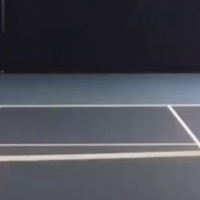
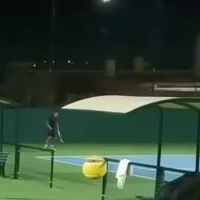
Starting to see more the ball

diff --git a/AI/ball_tracking2_zoom_prueba.py b/AI/ball_tracking2_zoom_prueba.py
@@ -34,6 +34,7 @@ def main(frame):
     global punto1Velocidad  
     global velocidadFinal
     global casiCentro
+    global numeroFrame
 
     # Agrandamos el frame para ver más la pelota
     frame = imutils.resize(frame, anchoOG * resizer, altoOG * resizer)
@@ -93,61 +94,6 @@ def main(frame):
     #     circles = np.round(circles[0, :]).astype(int)
     #     for (x, y, r) in circles:
     #         cv2.circle(frame, (x, y), r, (0, 255, 0), 2)
-    
-    if preCentro is not None:
-
-        greenLower2 = np.array([29, 15, 100])
-        greenUpper2 = np.array([200, 255, 255])
-
-        # Ajustar los puntos de recorte si están fuera de rango
-        x1 = max(preCentro[0][0] - recorteCerca, 0)
-        y1 = max(preCentro[0][1] - recorteCerca, 0)
-        x2 = min(preCentro[0][0] + recorteCerca, anchoOG * 3)
-        y2 = min(preCentro[0][1] + recorteCerca, altoOG * 3)
-
-        # Recortar la región de interés de la imagen original
-        imagen_recortada = frame[y1:y2, x1:x2]
-
-        # Agrandamos el frame para ver más la pelota
-        imagen_recortada = imutils.resize(imagen_recortada, imagen_recortada.shape[1] * resizer, imagen_recortada.shape[0] * resizer)
-
-        # Convertir la imagen a escala de grises
-        imagen_gris = cv2.cvtColor(imagen_recortada, cv2.COLOR_BGR2GRAY)
-
-        # Aplicar un suavizado si es necesario
-        blurred = cv2.GaussianBlur(imagen_gris, (11, 11), 0)
-        #thresh = cv2.threshold(blurred, 0, 255, cv2.THRESH_BINARY)[1]
-
-        # Convertir la imagen a HSV
-        # hsv = cv2.cvtColor(imagen_recortada, cv2.COLOR_BGR2HSV)
-
-        # # Filtrar los tonos verdes de la imagen
-        # mask = cv2.inRange(hsv, greenLower2, greenUpper2)
-
-        # # Aplicar operaciones de morfología para eliminar ruido
-        # kernel = np.ones((5, 5), np.uint8)
-        # mask = cv2.erode(mask, kernel, iterations=2)
-        # mask = cv2.dilate(mask, kernel, iterations=2)
-
-        #contours, _ = cv2.findContours(mask.copy(), cv2.RETR_EXTERNAL, cv2.CHAIN_APPROX_SIMPLE)
-        #cv2.drawContours(imagen_recortada, contours, -1, (255), thickness=cv2.FILLED)
-
-        # Busca los círculos en la imagen utilizando HoughCircles
-
-        # DP dice que si los círculos cercanos van a ser fusionados, o sea cuando el número aumenta es más probable que se fusionen. Tal vez haga que la posición del círculo no sea tan precisa. Suele variar entre 1, 1.2, 1.4
-        # Param1 es la sensibilidad que tiene para encontrar círculos. Si es muy grande, no va a encontrar muchos círculos y si es muy chico va a encontrar muchos círculos. Hay que encontrar un punto medio.
-        # Param2 es la precisión de la detección de círculos. Setea la cantidad de puntos del borde para que lo detectado sea considerado un círculo. Si es muy grande, no va a encontrar muchos círculos y si es muy chico va a encontrar muchos círculos. Hay que encontrar un punto medio.
-        circles = cv2.HoughCircles(blurred, cv2.HOUGH_GRADIENT, dp=1.2, minDist=50, param1=50, param2=25, minRadius=10, maxRadius=100)
-
-        # Si se encuentran círculos, dibújalos en la imagen original
-        if circles is not None:
-            circles = np.round(circles[0, :]).astype(int)
-            for (x, y, r) in circles:
-                cv2.circle(imagen_recortada, (x, y), r, (0, 255, 0), 2)
-                print("R", r)
-
-        cv2.imshow("Frame recortado", imagen_recortada)
-        #cv2.imshow("Mask Frame recortado", mask)
 
     centro = None
     
@@ -160,10 +106,6 @@ def main(frame):
         contornosQuietos(contornos, todosContornos, contornosIgnorar)
         if len(ultimosCentros) == 5 and seEstaMoviendo(ultimosCentros) == False:
             contornos = ignorarContornosQuietos(contornos, contornosIgnorar)
-
-        mascara2 = np.zeros(frame.shape[:2], dtype="uint8")
-        mascara2 = contornos.copy()
-        cv2.imshow("Mascara2", mascara2)
 
         if len(contornos) > 0:
             # Cuando empezó el video o pasaron 0.3 segundos desde que no se encuentra la pelota
@@ -184,7 +126,7 @@ def main(frame):
             # Si se detectó un centro hace menos de 0.3 segundos
             else:
                 # Corre la función tp_fix para determinar cual es el contorno detectado que está mas cerca de la pelota del frame anterior, es decir, encuentra la peltoa a través de su posición en el frame anterior
-                if preCentro is not None: casiCentro = tp_fix(contornos, preCentro, TiempoDeteccionUltimaPelota)
+                if preCentro is not None: casiCentro = tp_fix(contornos, preCentro, TiempoDeteccionUltimaPelota, False)
                 
                 # Encuentra la posición x, y del contorno más cercano a la pelota del frame anterior. Determina el centro de la pelota
                 if casiCentro is not None:
@@ -217,6 +159,68 @@ def main(frame):
             preCentro = None
         TiempoDeteccionUltimaPelota += 1/fps
         TiempoTresCentrosConsecutivos = 0
+
+    if centro is None and preCentro is not None:
+        # Ajustar los puntos de recorte si están fuera de rango
+        x1 = max(preCentro[0][0] - recorteCerca, 0)
+        y1 = max(preCentro[0][1] - recorteCerca, 0)
+        x2 = min(preCentro[0][0] + recorteCerca, anchoOG * 3)
+        y2 = min(preCentro[0][1] + recorteCerca, altoOG * 3)
+
+        # Recortar la región de interés de la imagen original
+        imagen_recortada = frame[y1:y2, x1:x2]
+
+        # Agrandamos el frame para ver más la pelota
+        imagen_recortada = imutils.resize(imagen_recortada, imagen_recortada.shape[1] * resizer, imagen_recortada.shape[0] * resizer)
+
+        # Convertir la imagen a escala de grises
+        imagen_gris = cv2.cvtColor(imagen_recortada, cv2.COLOR_BGR2GRAY)
+
+        # Aplicar un suavizado si es necesario
+        blurred = cv2.GaussianBlur(imagen_gris, (11, 11), 0)
+
+        # Busca los círculos en la imagen utilizando HoughCircles
+        circles = cv2.HoughCircles(blurred, cv2.HOUGH_GRADIENT, dp=1.2, minDist=50, param1=50, param2=25, minRadius=10, maxRadius=100)
+        
+        if circles is not None:
+            circuloDetectado = tp_fix(circles[0], ((imagen_recortada.shape[0] / 2, imagen_recortada.shape[1] / 2), 1), 0.2, True)
+            cv2.circle(imagen_recortada, (int(circuloDetectado[0]), int(circuloDetectado[1])), 50, (255, 255, 0), thickness = 2)
+
+            xr = int(x1 + circuloDetectado[0] / 3)
+            yr = int(y1 + circuloDetectado[1] / 3)
+            rr = int(circuloDetectado[2] / 3)
+
+            cv2.circle(frame, (xr, yr), rr, (255, 255, 0), thickness = 2)
+
+            centro = ((xr, yr), rr)
+
+        # Si se encuentran círculos, dibújalos en la imagen original
+        if circles is not None:
+            circles = np.round(circles[0, :]).astype(int)
+            for (x, y, r) in circles:
+                cv2.circle(imagen_recortada, (x, y), r, (0, 255, 0), 2)
+            
+        # pausado = True
+
+        # while True:
+        #     # Verificar si se debe pausar la imagen
+        #     if pausado:
+        #         # Esperar hasta que se presione cualquier tecla
+        #         cv2.waitKey(0)
+        #         pausado = False
+        #     else:
+        #         # Esperar 1 milisegundo y obtener el código de tecla
+        #         key = cv2.waitKey(1)
+                
+        #         # Verificar si se debe pausar la imagen
+        #         if key == ord('p'):
+        #             pausado = True
+        #         # Verificar si se debe salir del bucle
+        #         elif key == ord('q'):  # Código ASCII de la tecla Esc
+        #             break
+
+        imagen_recortada = imutils.resize(imagen_recortada, int(imagen_recortada.shape[1] / resizer), int(imagen_recortada.shape[0] / resizer))
+        cv2.imshow("Imagen recortada", imagen_recortada)
     
     # Actualiza los puntos para trazar la trayectoria de la pelota
     pts_pelota_norm.appendleft(centro)
@@ -513,30 +517,32 @@ def seEstaMoviendo(ultCentros):
     return False
 
 # Función que arregla el problema de "la zapatilla verde"
-def tp_fix(contornos, pre_centro, count):
+def tp_fix(contornos, pre_centro, count, circulo):
     cnts_pts = []
     medidorX = 100
     medidorY = 103
-    
     for contorno in contornos:
-        ((x, y), _) = cv2.minEnclosingCircle(contorno)
-        print("preCentro", pre_centro)
-        print("x,y", x,y)
-        # cnts_pts tiene aquellos contornos del frame actual que están cerca del pre_centro en las coordenadas x,y. 
-        if x - pre_centro[0][0] > medidorX * resizer or pre_centro[0][0] - x > medidorX * resizer or y - pre_centro[0][1] > medidorY * resizer or pre_centro[0][1] - y > medidorY * resizer and count <= 0.5:
-            continue
-        cnts_pts.append(contorno)
+        if circulo == False:
+            ((x, y), _) = cv2.minEnclosingCircle(contorno)
+            # cnts_pts tiene aquellos contornos del frame actual que están cerca del pre_centro en las coordenadas x,y. 
+            if x - pre_centro[0][0] > medidorX * resizer or pre_centro[0][0] - x > medidorX * resizer or y - pre_centro[0][1] > medidorY * resizer or pre_centro[0][1] - y > medidorY * resizer and count <= 0.5:
+                continue
+            cnts_pts.append(contorno)
+        else:
+            cnts_pts.append(contorno)
     if cnts_pts != []:
         # Devuelve la función cualEstaMasCerca con los parametros obtenidos en la función
-        return cualEstaMasCerca(pre_centro, cnts_pts)
+        return cualEstaMasCerca(pre_centro, cnts_pts, circulo)
 
 # Define qué candidato a pelota es el punto más cercano al anterior. Toma los puntos de tp_fix y analiza cual está mas cerca al pre_centro (centro anterior).
-def cualEstaMasCerca(punto, lista):
+def cualEstaMasCerca(punto, lista, circulo):
     suma = []
     suma2 = []
     for i in lista:
         # Obtenemos las diferencias entre el preCentro y el círculo a comparar que proviene del contorno.
-        (xCenter, yCenter), radius = cv2.minEnclosingCircle(i)
+        if circulo:
+            xCenter, yCenter, radius = i
+        else: (xCenter, yCenter), radius = cv2.minEnclosingCircle(i)
         difEnX = abs(int(xCenter) - int(punto[0][0]))
         difEnY = abs(int(yCenter) - int(punto[0][1]))
         difRadio = abs(int(radius) - int(punto[1]))
@@ -855,8 +861,8 @@ for _ in range(frame_count):
 
     main(frame)
 
-    print("pts_piques", pts_piques_finales)
-    print("pts_golpes", pts_golpes_finales)
+    #print("pts_piques", pts_piques_finales)
+    #print("pts_golpes", pts_golpes_finales)
 
     # Terminar la ejecución si se presiona la "q"
     key = cv2.waitKey(1) & 0xFF
